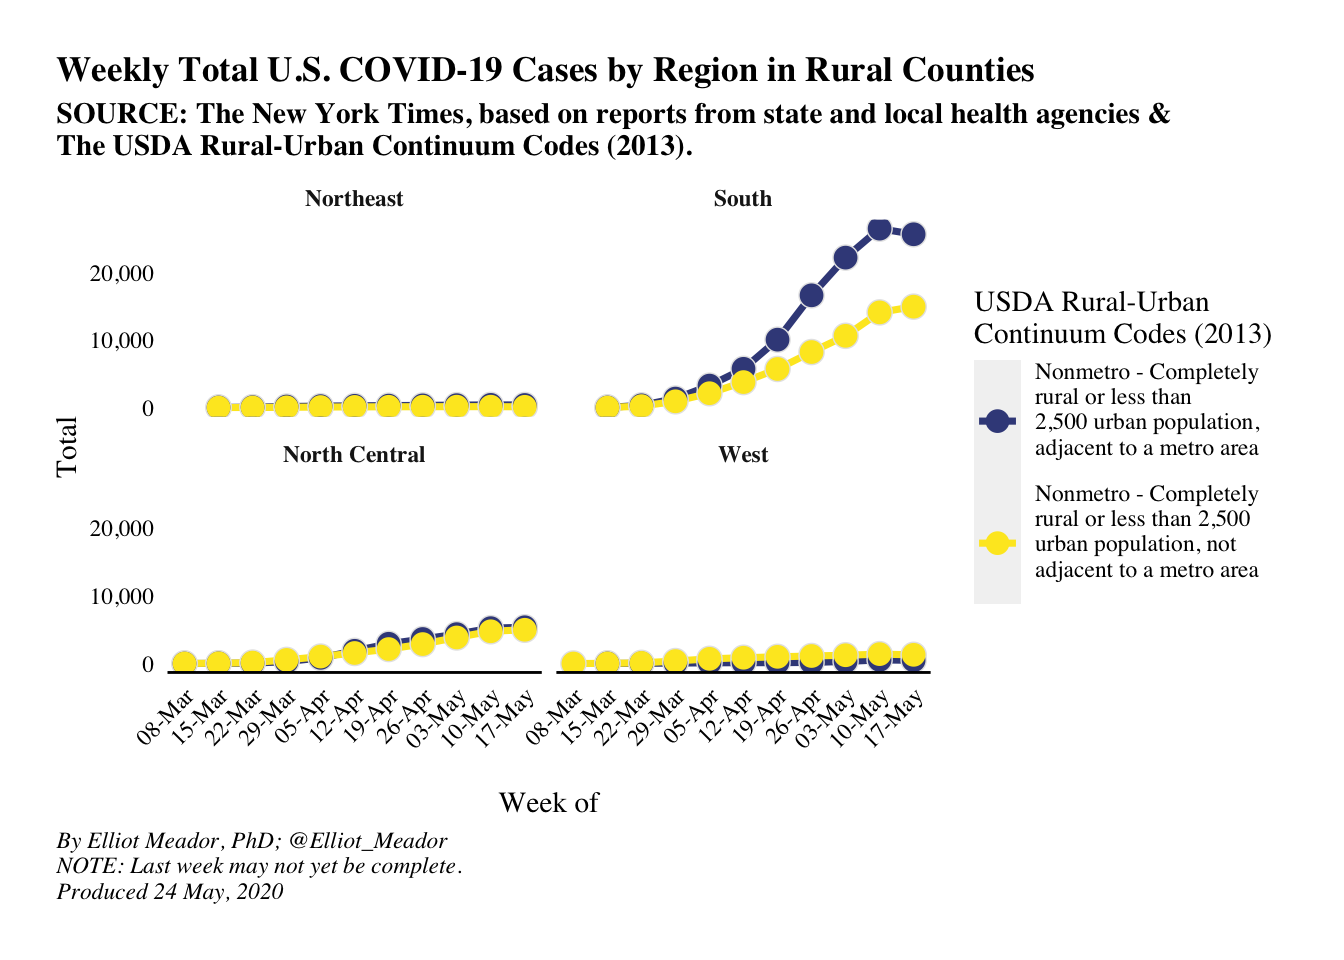
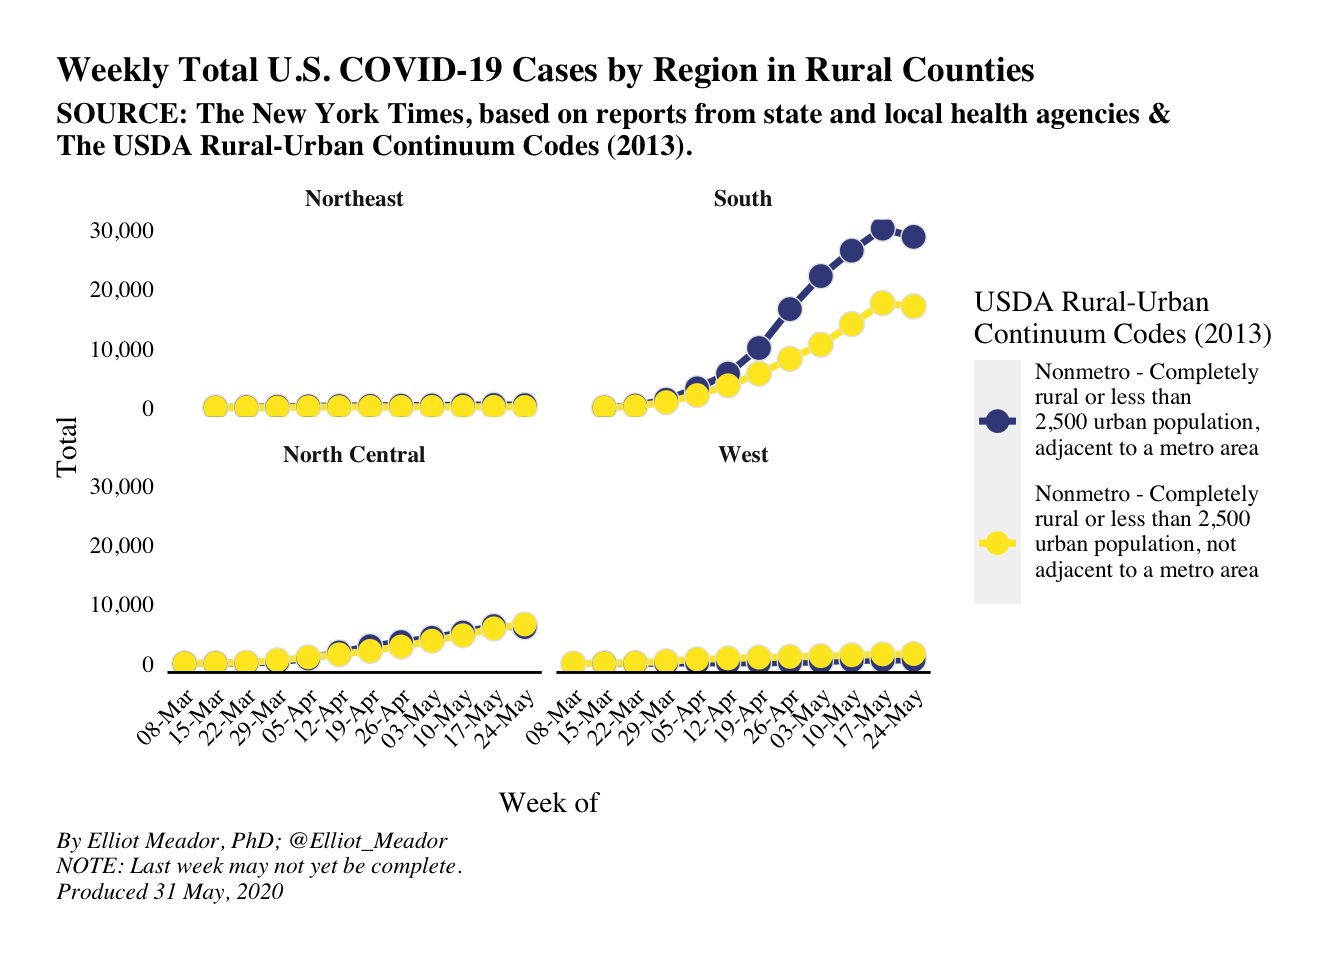
Updated Covid-19 data from NyTimes.

diff --git a/public/post/covid-19-rural-deltanomics/index.html b/public/post/covid-19-rural-deltanomics/index.html
@@ -28,7 +28,7 @@
   
     
   
-  <meta name="description" content="Last updated on 24-May-2020  Introduction Now that we are square in the middle of the Covid-19 pandemic, I thought it might be beneficial to look at some statistics associated with the number of cases. We’ll differentiate our analysis by focusing on cases of Covid-19 in rural areas of the U.S. There are a couple of reasons for this: mainly, rural analytics is my speciality, so while I don’t know much about the virus, I do know some about rural societies and economies; we can easily find pertinent data on rural counties; and, we can utilise some cool built-in R functions to help us along the way.">
+  <meta name="description" content="Last updated on 31-May-2020  Introduction Now that we are square in the middle of the Covid-19 pandemic, I thought it might be beneficial to look at some statistics associated with the number of cases. We’ll differentiate our analysis by focusing on cases of Covid-19 in rural areas of the U.S. There are a couple of reasons for this: mainly, rural analytics is my speciality, so while I don’t know much about the virus, I do know some about rural societies and economies; we can easily find pertinent data on rural counties; and, we can utilise some cool built-in R functions to help us along the way.">
 
   
   <link rel="alternate" hreflang="en-us" href="/post/covid-19-rural-deltanomics/">
@@ -270,7 +270,7 @@
   <meta property="og:site_name" content="Deltanomics">
   <meta property="og:url" content="/post/covid-19-rural-deltanomics/">
   <meta property="og:title" content="Covid-19 and Rural Areas in the U.S. | Deltanomics">
-  <meta property="og:description" content="Last updated on 24-May-2020  Introduction Now that we are square in the middle of the Covid-19 pandemic, I thought it might be beneficial to look at some statistics associated with the number of cases. We’ll differentiate our analysis by focusing on cases of Covid-19 in rural areas of the U.S. There are a couple of reasons for this: mainly, rural analytics is my speciality, so while I don’t know much about the virus, I do know some about rural societies and economies; we can easily find pertinent data on rural counties; and, we can utilise some cool built-in R functions to help us along the way."><meta property="og:image" content="/images/icon_hu92a9dc9639b79cadf266306904fb01f6_516996_512x512_fill_lanczos_center_2.png">
+  <meta property="og:description" content="Last updated on 31-May-2020  Introduction Now that we are square in the middle of the Covid-19 pandemic, I thought it might be beneficial to look at some statistics associated with the number of cases. We’ll differentiate our analysis by focusing on cases of Covid-19 in rural areas of the U.S. There are a couple of reasons for this: mainly, rural analytics is my speciality, so while I don’t know much about the virus, I do know some about rural societies and economies; we can easily find pertinent data on rural counties; and, we can utilise some cool built-in R functions to help us along the way."><meta property="og:image" content="/images/icon_hu92a9dc9639b79cadf266306904fb01f6_516996_512x512_fill_lanczos_center_2.png">
   <meta property="twitter:image" content="/images/icon_hu92a9dc9639b79cadf266306904fb01f6_516996_512x512_fill_lanczos_center_2.png"><meta property="og:locale" content="en-us">
   
     
@@ -322,7 +322,7 @@
       "url": "img//"
     }
   },
-  "description": "Last updated on 24-May-2020  Introduction Now that we are square in the middle of the Covid-19 pandemic, I thought it might be beneficial to look at some statistics associated with the number of cases. We’ll differentiate our analysis by focusing on cases of Covid-19 in rural areas of the U.S. There are a couple of reasons for this: mainly, rural analytics is my speciality, so while I don’t know much about the virus, I do know some about rural societies and economies; we can easily find pertinent data on rural counties; and, we can utilise some cool built-in R functions to help us along the way."
+  "description": "Last updated on 31-May-2020  Introduction Now that we are square in the middle of the Covid-19 pandemic, I thought it might be beneficial to look at some statistics associated with the number of cases. We’ll differentiate our analysis by focusing on cases of Covid-19 in rural areas of the U.S. There are a couple of reasons for this: mainly, rural analytics is my speciality, so while I don’t know much about the virus, I do know some about rural societies and economies; we can easily find pertinent data on rural counties; and, we can utilise some cool built-in R functions to help us along the way."
 }
 </script>
 
@@ -706,8 +706,8 @@
       
 
 
-<div id="last-updated-on-24-may-2020" class="section level4">
-<h4>Last updated on 24-May-2020</h4>
+<div id="last-updated-on-31-may-2020" class="section level4">
+<h4>Last updated on 31-May-2020</h4>
 </div>
 <div id="introduction" class="section level1">
 <h1>Introduction</h1>

diff --git a/public/links/index.html b/public/links/index.html
@@ -782,3 +782,156 @@
 
 </body>
 </html>
+js.cloudflare.com/ajax/libs/highlight.js/9.15.10/languages/r.min.js"></script>
+        
+      
+
+    
+
+    
+    
+      <script src="https://cdnjs.cloudflare.com/ajax/libs/leaflet/1.5.1/leaflet.js" integrity="sha256-EErZamuLefUnbMBQbsEqu1USa+btR2oIlCpBJbyD4/g=" crossorigin="anonymous"></script>
+    
+
+    
+    
+    <script>const code_highlighting = true;</script>
+    
+
+    
+    
+    
+    
+    
+    
+    <script>
+      const search_config = {"indexURI":"/index.json","minLength":1,"threshold":0.3};
+      const i18n = {"no_results":"No results found","placeholder":"Search...","results":"results found"};
+      const content_type = {
+        'post': "Posts",
+        'project': "Projects",
+        'publication' : "Publications",
+        'talk' : "Talks"
+        };
+    </script>
+    
+
+    
+    
+
+    
+    
+    <script id="search-hit-fuse-template" type="text/x-template">
+      <div class="search-hit" id="summary-{{key}}">
+      <div class="search-hit-content">
+        <div class="search-hit-name">
+          <a href="{{relpermalink}}">{{title}}</a>
+          <div class="article-metadata search-hit-type">{{type}}</div>
+          <p class="search-hit-description">{{snippet}}</p>
+        </div>
+      </div>
+      </div>
+    </script>
+    
+
+    
+    
+    <script src="https://cdnjs.cloudflare.com/ajax/libs/fuse.js/3.2.1/fuse.min.js" integrity="sha256-VzgmKYmhsGNNN4Ph1kMW+BjoYJM2jV5i4IlFoeZA9XI=" crossorigin="anonymous"></script>
+    <script src="https://cdnjs.cloudflare.com/ajax/libs/mark.js/8.11.1/jquery.mark.min.js" integrity="sha256-4HLtjeVgH0eIB3aZ9mLYF6E8oU5chNdjU6p6rrXpl9U=" crossorigin="anonymous"></script>
+    
+
+    
+    
+
+    
+    
+
+    
+    
+    
+    
+    
+    
+    
+    
+    
+      
+    
+    
+    
+    
+    <script src="/js/academic.min.a0d331bcd05dbe8b31e244f796710f08.js"></script>
+
+    
+
+
+
+
+
+
+  
+  
+  <div class="container">
+    <footer class="site-footer">
+  
+  <p class="powered-by">
+    
+      <a href="/privacy/">Privacy Policy</a>
+    
+    
+       &middot; 
+      <a href="/terms/">Terms</a>
+    
+  </p>
+  
+
+  <p class="powered-by">
+    ©2020 &middot; 
+
+    Powered by the
+    <a href="https://sourcethemes.com/academic/" target="_blank" rel="noopener">Academic theme</a> for
+    <a href="https://gohugo.io" target="_blank" rel="noopener">Hugo</a>.
+
+    
+    <span class="float-right" aria-hidden="true">
+      <a href="#" class="back-to-top">
+        <span class="button_icon">
+          <i class="fas fa-chevron-up fa-2x"></i>
+        </span>
+      </a>
+    </span>
+    
+  </p>
+</footer>
+
+  </div>
+  
+
+  
+<div id="modal" class="modal fade" role="dialog">
+  <div class="modal-dialog">
+    <div class="modal-content">
+      <div class="modal-header">
+        <h5 class="modal-title">Cite</h5>
+        <button type="button" class="close" data-dismiss="modal" aria-label="Close">
+          <span aria-hidden="true">&times;</span>
+        </button>
+      </div>
+      <div class="modal-body">
+        <pre><code class="tex hljs"></code></pre>
+      </div>
+      <div class="modal-footer">
+        <a class="btn btn-outline-primary my-1 js-copy-cite" href="#" target="_blank">
+          <i class="fas fa-copy"></i> Copy
+        </a>
+        <a class="btn btn-outline-primary my-1 js-download-cite" href="#" target="_blank">
+          <i class="fas fa-download"></i> Download
+        </a>
+        <div id="modal-error"></div>
+      </div>
+    </div>
+  </div>
+</div>
+
+</body>
+</html>

diff --git a/public/categories/r/index.html b/public/categories/r/index.html
@@ -603,7 +603,7 @@
     <h2><a href="/post/covid-19-rural-deltanomics/">Covid-19 and Rural Areas in the U.S.</a></h2>
     <div class="article-style">
       
-      Last updated on 24-May-2020  Introduction Now that we are square in the middle of the Covid-19 pandemic, I thought it might be beneficial to look at some statistics associated with the number of cases. We’ll differentiate our analysis by focusing on cases of Covid-19 in rural areas of the U.S. There are a couple of reasons for this: mainly, rural analytics is my speciality, so while I don’t know much about the virus, I do know some about rural societies and economies; we can easily find pertinent data on rural counties; and, we can utilise some cool built-in R functions to help us along the way.
+      Last updated on 31-May-2020  Introduction Now that we are square in the middle of the Covid-19 pandemic, I thought it might be beneficial to look at some statistics associated with the number of cases. We’ll differentiate our analysis by focusing on cases of Covid-19 in rural areas of the U.S. There are a couple of reasons for this: mainly, rural analytics is my speciality, so while I don’t know much about the virus, I do know some about rural societies and economies; we can easily find pertinent data on rural counties; and, we can utilise some cool built-in R functions to help us along the way.
       
     </div>
   </div>

diff --git a/public/tags/data/index.html b/public/tags/data/index.html
@@ -603,7 +603,7 @@
     <h2><a href="/post/covid-19-rural-deltanomics/">Covid-19 and Rural Areas in the U.S.</a></h2>
     <div class="article-style">
       
-      Last updated on 24-May-2020  Introduction Now that we are square in the middle of the Covid-19 pandemic, I thought it might be beneficial to look at some statistics associated with the number of cases. We’ll differentiate our analysis by focusing on cases of Covid-19 in rural areas of the U.S. There are a couple of reasons for this: mainly, rural analytics is my speciality, so while I don’t know much about the virus, I do know some about rural societies and economies; we can easily find pertinent data on rural counties; and, we can utilise some cool built-in R functions to help us along the way.
+      Last updated on 31-May-2020  Introduction Now that we are square in the middle of the Covid-19 pandemic, I thought it might be beneficial to look at some statistics associated with the number of cases. We’ll differentiate our analysis by focusing on cases of Covid-19 in rural areas of the U.S. There are a couple of reasons for this: mainly, rural analytics is my speciality, so while I don’t know much about the virus, I do know some about rural societies and economies; we can easily find pertinent data on rural counties; and, we can utilise some cool built-in R functions to help us along the way.
       
     </div>
   </div>

diff --git a/public/tags/dplyr/index.html b/public/tags/dplyr/index.html
@@ -603,7 +603,7 @@
     <h2><a href="/post/covid-19-rural-deltanomics/">Covid-19 and Rural Areas in the U.S.</a></h2>
     <div class="article-style">
       
-      Last updated on 24-May-2020  Introduction Now that we are square in the middle of the Covid-19 pandemic, I thought it might be beneficial to look at some statistics associated with the number of cases. We’ll differentiate our analysis by focusing on cases of Covid-19 in rural areas of the U.S. There are a couple of reasons for this: mainly, rural analytics is my speciality, so while I don’t know much about the virus, I do know some about rural societies and economies; we can easily find pertinent data on rural counties; and, we can utilise some cool built-in R functions to help us along the way.
+      Last updated on 31-May-2020  Introduction Now that we are square in the middle of the Covid-19 pandemic, I thought it might be beneficial to look at some statistics associated with the number of cases. We’ll differentiate our analysis by focusing on cases of Covid-19 in rural areas of the U.S. There are a couple of reasons for this: mainly, rural analytics is my speciality, so while I don’t know much about the virus, I do know some about rural societies and economies; we can easily find pertinent data on rural counties; and, we can utilise some cool built-in R functions to help us along the way.
       
     </div>
   </div>

diff --git a/public/tags/ggplot/index.html b/public/tags/ggplot/index.html
@@ -603,7 +603,7 @@
     <h2><a href="/post/covid-19-rural-deltanomics/">Covid-19 and Rural Areas in the U.S.</a></h2>
     <div class="article-style">
       
-      Last updated on 24-May-2020  Introduction Now that we are square in the middle of the Covid-19 pandemic, I thought it might be beneficial to look at some statistics associated with the number of cases. We’ll differentiate our analysis by focusing on cases of Covid-19 in rural areas of the U.S. There are a couple of reasons for this: mainly, rural analytics is my speciality, so while I don’t know much about the virus, I do know some about rural societies and economies; we can easily find pertinent data on rural counties; and, we can utilise some cool built-in R functions to help us along the way.
+      Last updated on 31-May-2020  Introduction Now that we are square in the middle of the Covid-19 pandemic, I thought it might be beneficial to look at some statistics associated with the number of cases. We’ll differentiate our analysis by focusing on cases of Covid-19 in rural areas of the U.S. There are a couple of reasons for this: mainly, rural analytics is my speciality, so while I don’t know much about the virus, I do know some about rural societies and economies; we can easily find pertinent data on rural counties; and, we can utilise some cool built-in R functions to help us along the way.
       
     </div>
   </div>

diff --git a/public/index.html b/public/index.html
@@ -929,7 +929,7 @@
 
     
     <div class="article-style">
-      Last updated on 24-May-2020  Introduction Now that we are square in the middle of the Covid-19 pandemic, I thought it might be …
+      Last updated on 31-May-2020  Introduction Now that we are square in the middle of the Covid-19 pandemic, I thought it might be …
     </div>
     
 

diff --git a/public/post/index.html b/public/post/index.html
@@ -626,7 +626,7 @@
 
     
     <div class="article-style">
-      Last updated on 24-May-2020  Introduction Now that we are square in the middle of the Covid-19 pandemic, I thought it might be …
+      Last updated on 31-May-2020  Introduction Now that we are square in the middle of the Covid-19 pandemic, I thought it might be …
     </div>
     
 

diff --git a/content/post/2020-04-26-covid-19-and-rural-areas-in-the-u-s.html b/content/post/2020-04-26-covid-19-and-rural-areas-in-the-u-s.html
@@ -25,8 +25,8 @@ editor_options:
 
 
 
-<div id="last-updated-on-24-may-2020" class="section level4">
-<h4>Last updated on 24-May-2020</h4>
+<div id="last-updated-on-31-may-2020" class="section level4">
+<h4>Last updated on 31-May-2020</h4>
 </div>
 <div id="introduction" class="section level1">
 <h1>Introduction</h1>
